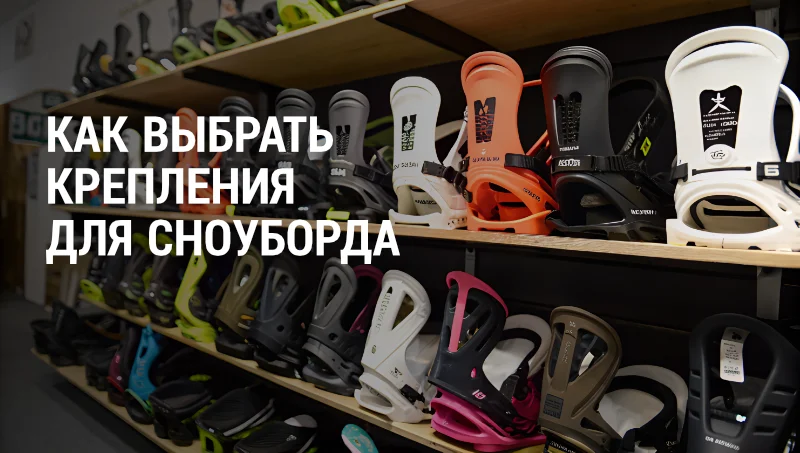
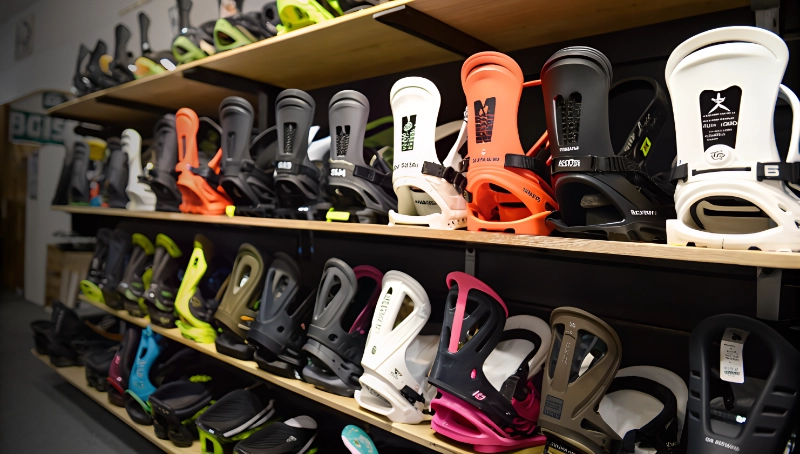
og images

diff --git a/blog/binding_choose.html b/blog/binding_choose.html
@@ -10,12 +10,12 @@
   <meta property="og:description"
     content="Крепления, как и ботинки, отвечают за передачу команд доске. По этому к их выбору нужно подойти ответственно.">
   <!-- OG: Default -->
-  <meta property="og:image" content="https://wayz-x.github.io/images/blog/og-boots-def.png">
+  <meta property="og:image" content="https://wayz-x.github.io/images/blog/og-binding-choose-def.webp">
   <meta property="og:image:type" content="image/png">
   <meta property="og:image:width" content="1200">
   <meta property="og:image:height" content="630">
   <!-- OG: Square Thumbnail -->
-  <meta property="og:image" content="https://wayz-x.github.io/images/blog/og-boots-sq.png">
+  <meta property="og:image" content="https://wayz-x.github.io/images/blog/og-binding-choose-sq.webp">
   <meta property="og:image:width" content="600">
   <meta property="og:image:height" content="600">
   <!-- OG: Logo -->
